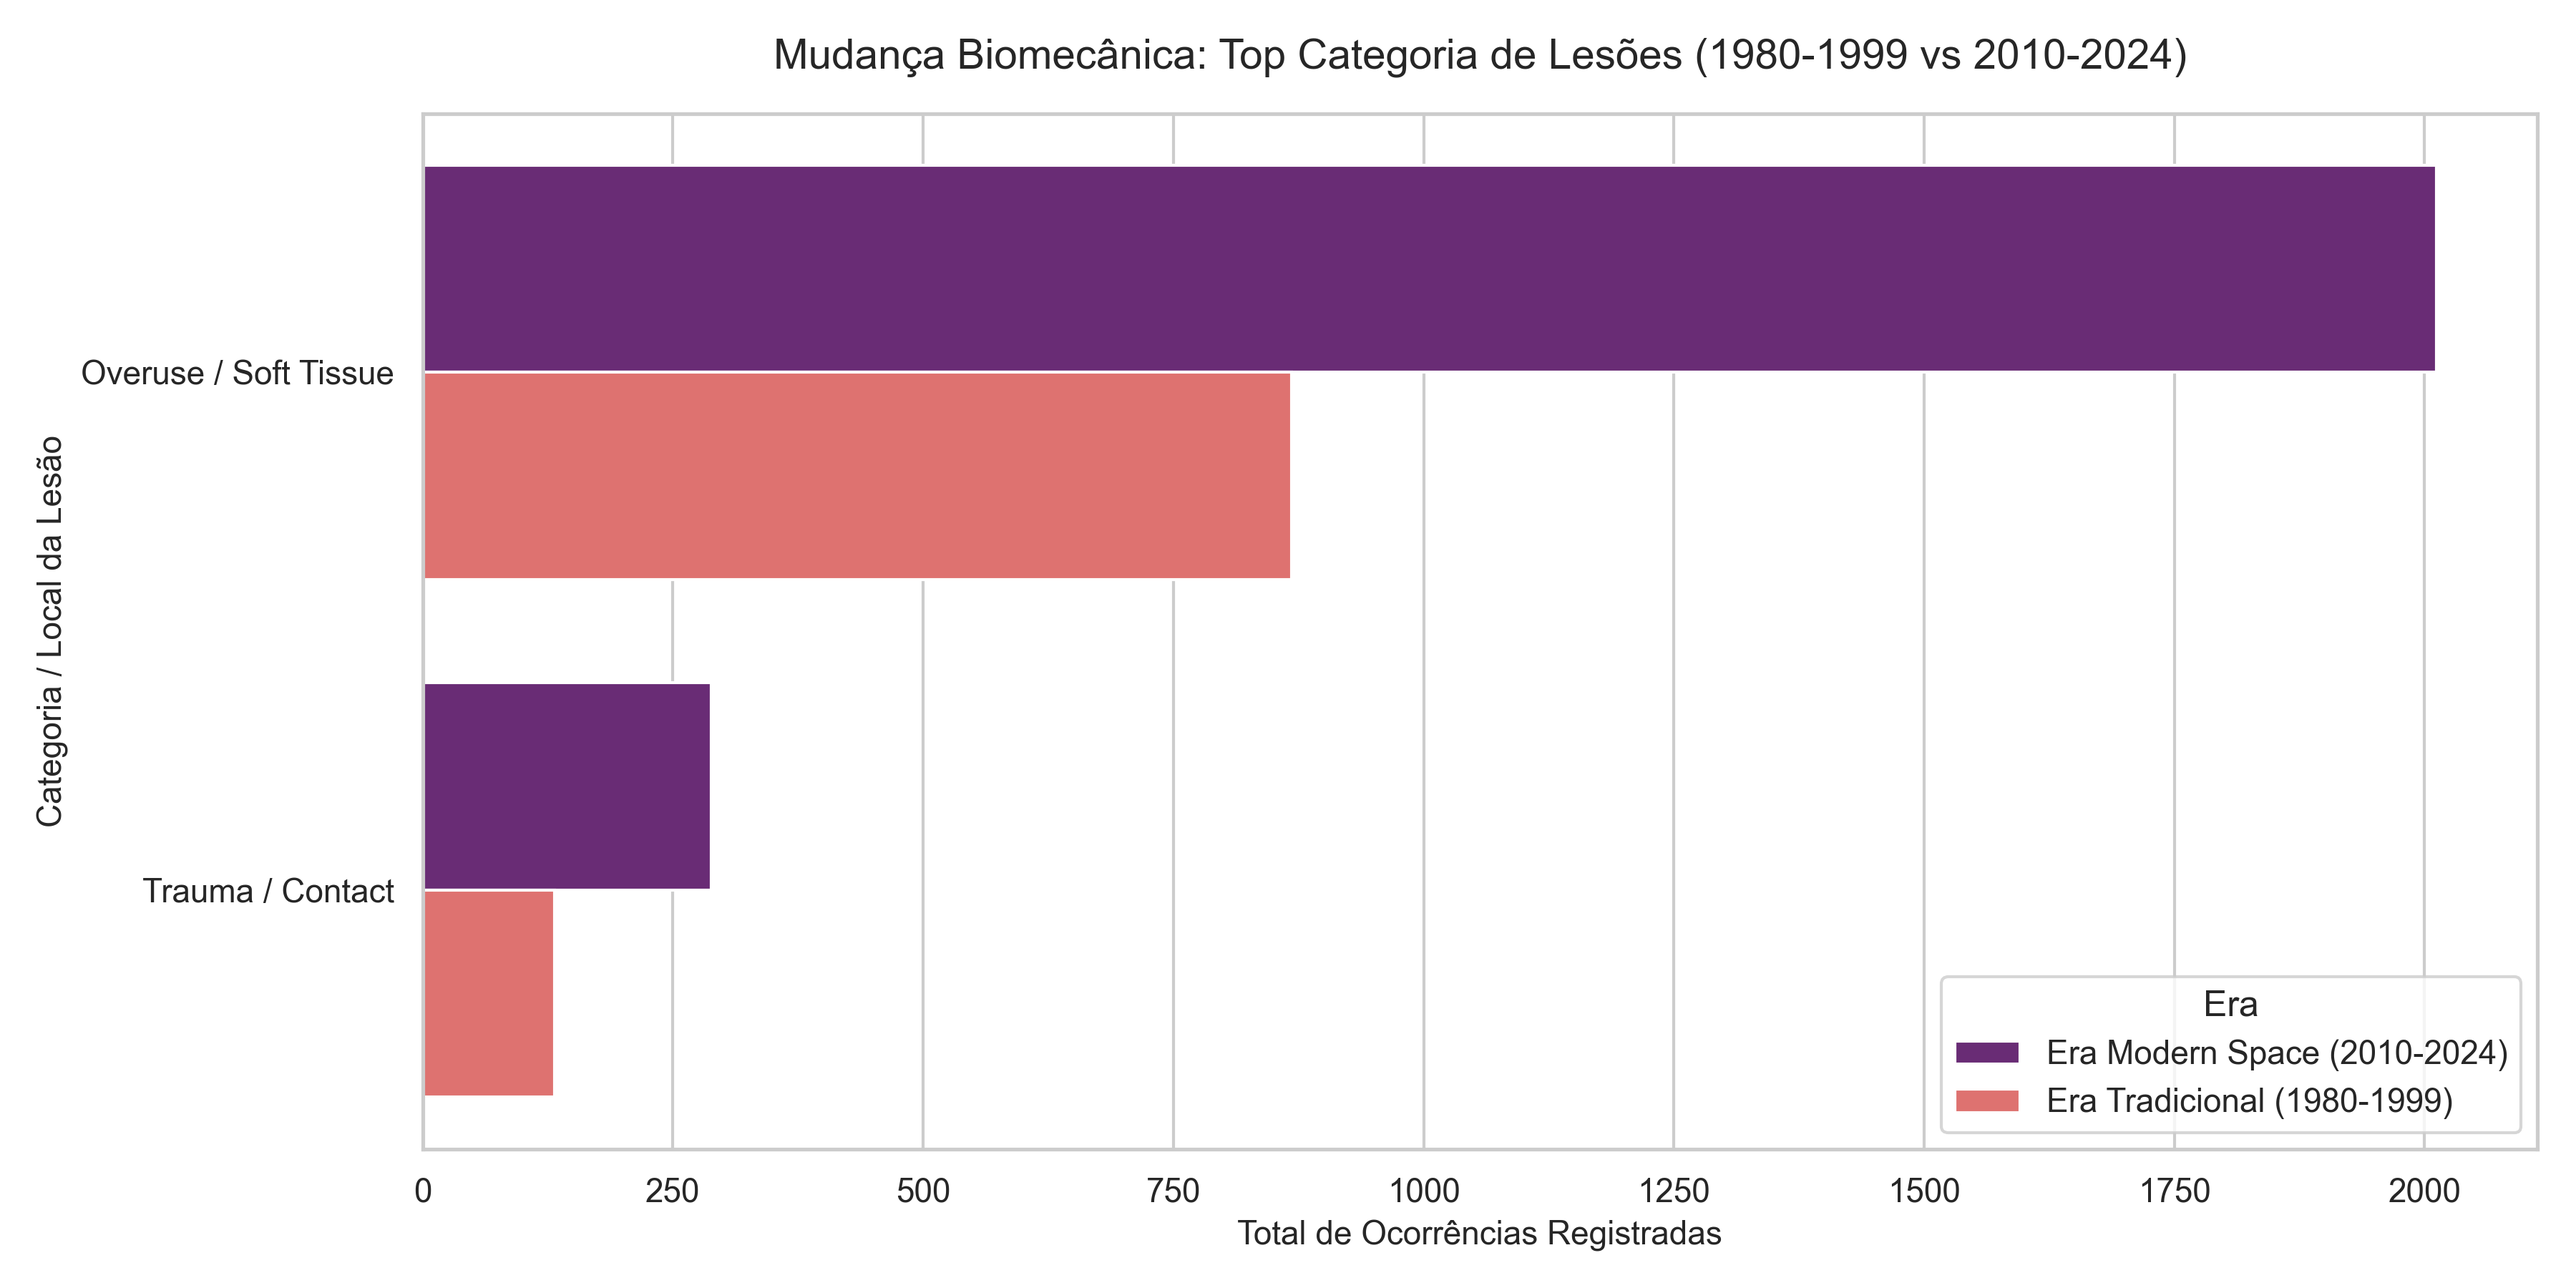
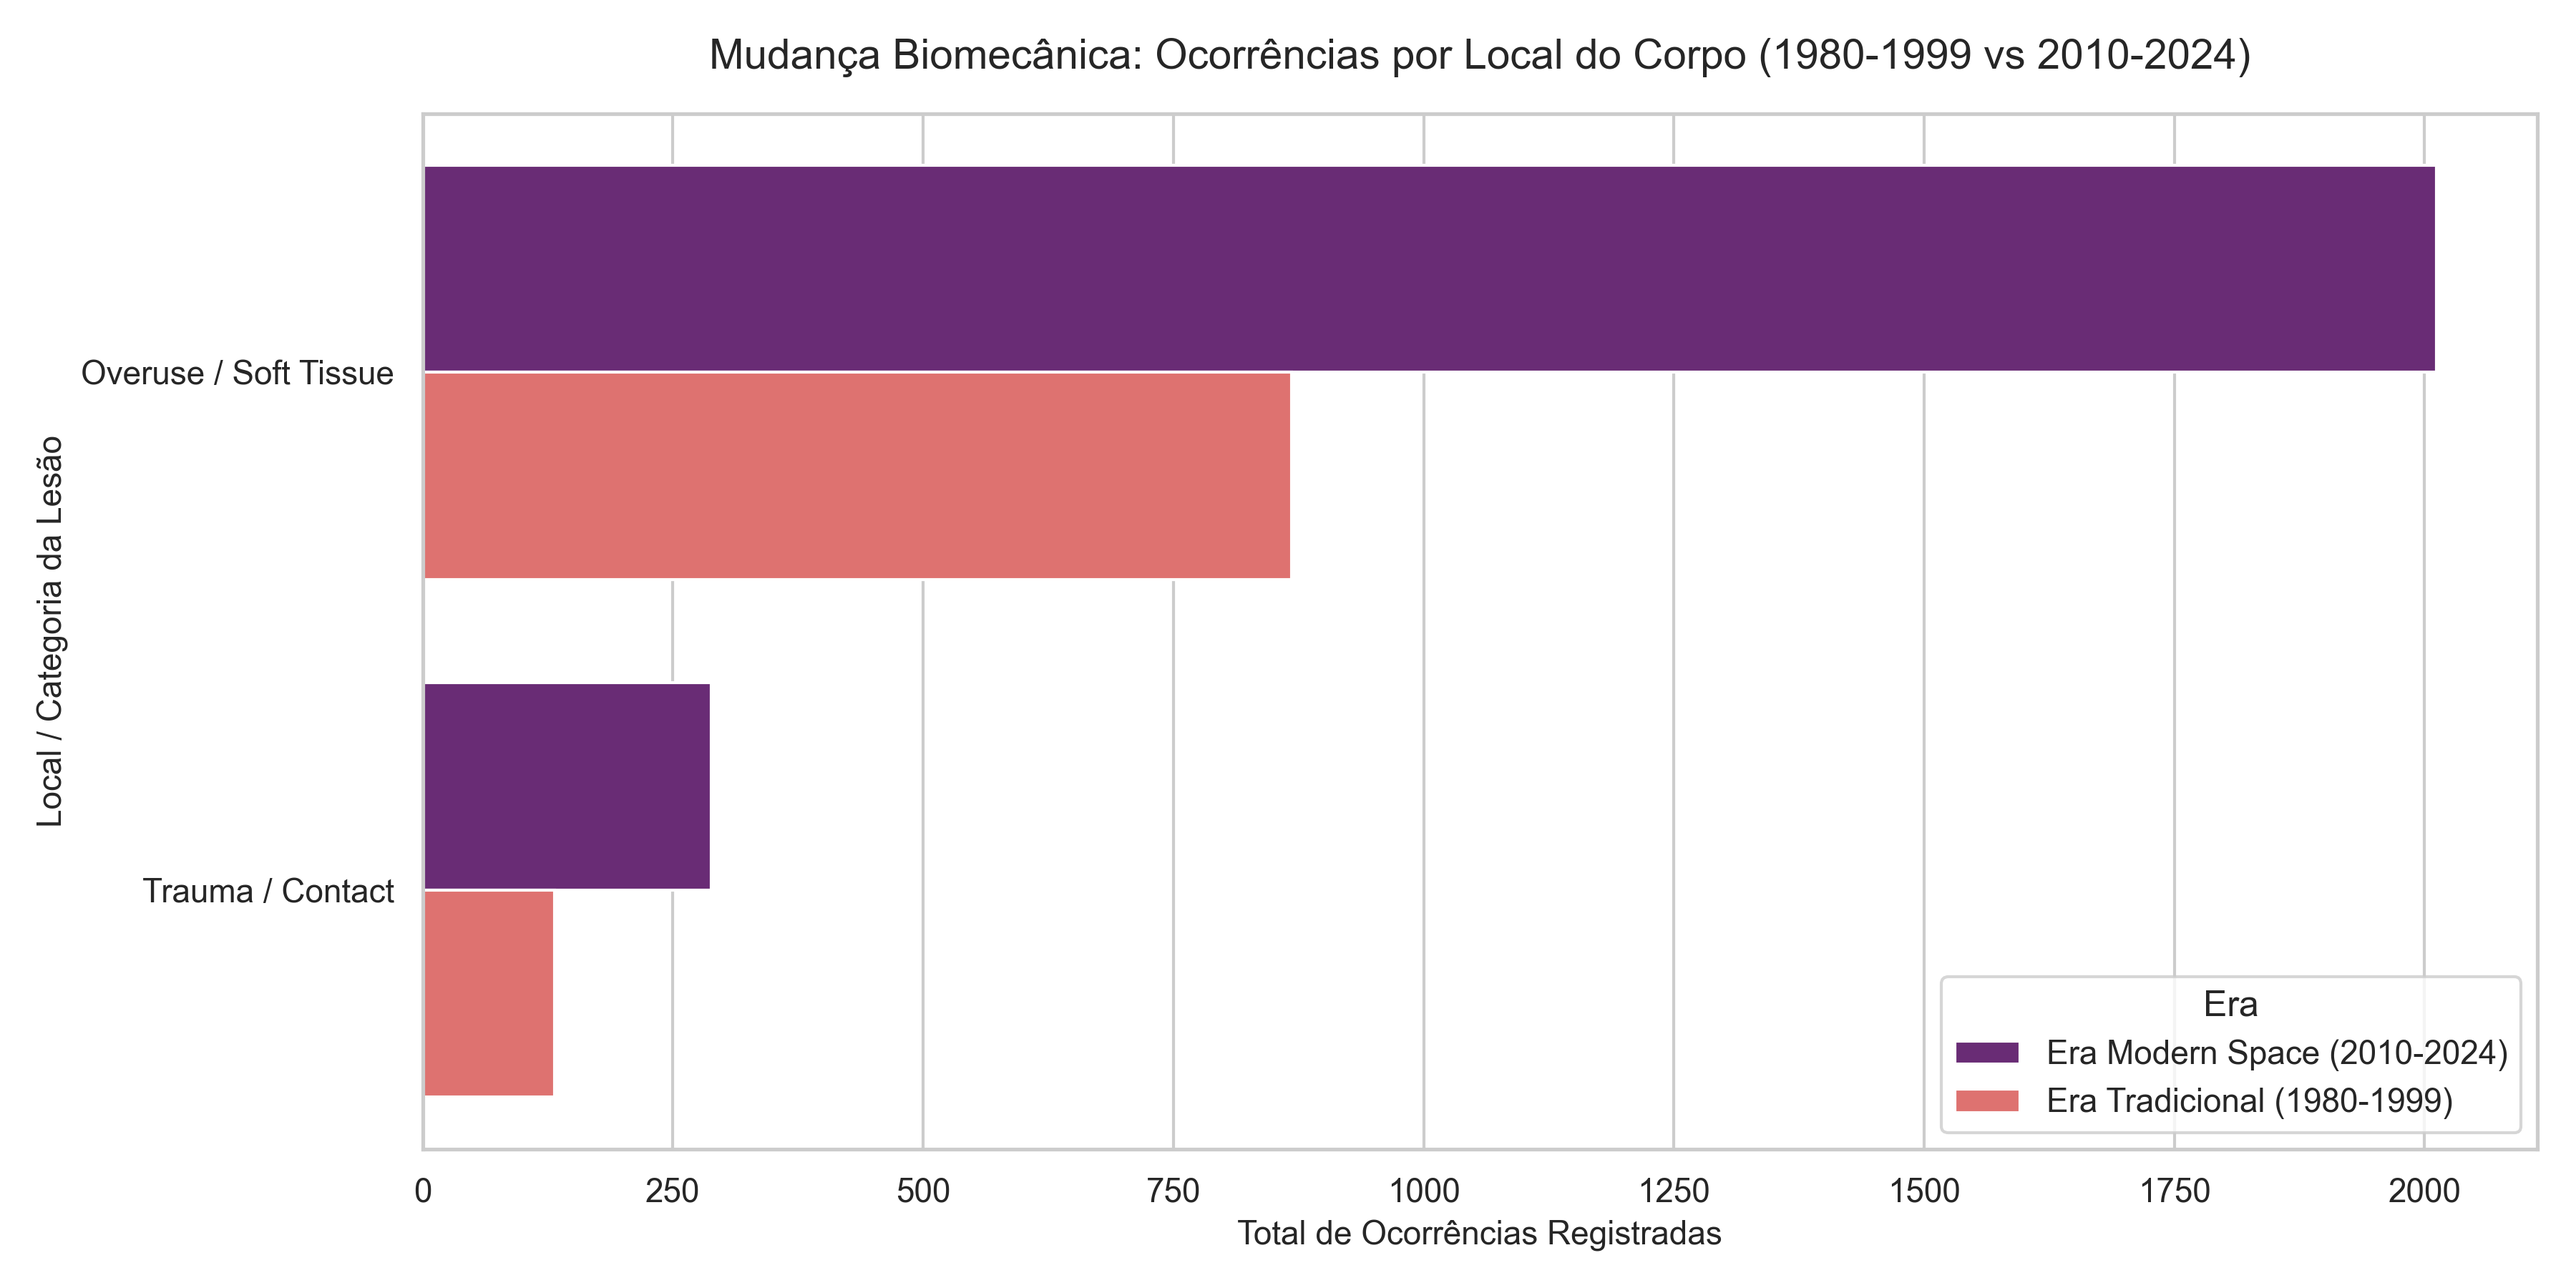
fix: resolve GROUP BY query issue in plot_insights and sync figures

Changed region(s): [[0.28, 0.0311, 0.8711, 0.0622], [0.0, 0.4667, 0.0311, 0.6222]]

diff --git a/scripts/analytics/plot_insights.py b/scripts/analytics/plot_insights.py
@@ -11,61 +11,68 @@ def generate_plots_and_tables():
     con = duckdb.connect(DB_PATH)
     sns.set_theme(style="whitegrid")
     
-    print("📊 Gerando análises e comparações topográficas de lesões por Era...")
+    print("📊 Gerando análises financeiras, de jogos perdidos e locais do corpo por Era...")
     
-    # 1. Top 10 Tipos/Locais de Lesão por Era
-    df_top_injuries = con.execute("""
-        WITH era_injuries AS (
-            SELECT 
+    # 1. Análise Financeira e de Gravidade por Categoria de Lesão e Era (Agrupado via era_group)
+    df_injury_impact = con.execute("""
+        SELECT 
+            CASE 
+                WHEN season < 2000 THEN 'Era Tradicional (1980-1999)'
+                ELSE 'Era Modern Space (2010-2024)'
+            END AS era_group,
+            injury_category,
+            COUNT(*) AS total_cases,
+            ROUND(AVG(COALESCE(games_missed, 5)), 1) AS avg_games_missed,
+            -- Custo estimado por jogo perdido ($75k/jogo era moderna vs $20k/jogo tradicional)
+            ROUND(COUNT(*) * AVG(COALESCE(games_missed, 5)) * 
                 CASE 
-                    WHEN season < 2000 THEN 'Era Tradicional (1980-1999)'
-                    ELSE 'Era Modern Space (2010-2024)'
-                END AS era_group,
-                injury_category,
-                COUNT(*) AS total_cases
-            FROM main_silver.stg_injuries
-            WHERE injury_category IS NOT NULL
-            GROUP BY 1, 2
-        )
-        SELECT era_group, injury_category, total_cases
-        FROM era_injuries
+                    WHEN (CASE WHEN season < 2000 THEN 'Era Tradicional (1980-1999)' ELSE 'Era Modern Space (2010-2024)' END) = 'Era Tradicional (1980-1999)' 
+                    THEN 20000 
+                    ELSE 75000 
+                END / 1000000.0, 2) AS estimated_cost_millions
+        FROM main_silver.stg_injuries
+        WHERE injury_category IS NOT NULL
+        GROUP BY 1, 2
         ORDER BY era_group, total_cases DESC
     """).df()
     
-    # 2. Dados Gerais da Gold
-    df_eras = con.execute("SELECT * FROM main_gold.fct_league_era_workload_injuries ORDER BY season ASC").df()
-    df_acwr = con.execute("SELECT * FROM main_gold.fct_acute_chronic_workload_ratio WHERE acwr_ratio IS NOT NULL").df()
-    
     con.close()
     
-    # --- GRÁFICO 1: Comparativo Top Locais/Tipos de Lesão (Tradicional vs Moderna) ---
+    # --- GRÁFICO 1: Comparativo de Ocorrências por Local do Corpo ---
     plt.figure(figsize=(12, 6))
     sns.barplot(
-        data=df_top_injuries, 
+        data=df_injury_impact, 
         x='total_cases', 
         y='injury_category', 
         hue='era_group', 
         palette='magma'
     )
-    plt.title('Mudança Biomecânica: Top Categoria de Lesões (1980-1999 vs 2010-2024)', fontsize=14, pad=15)
+    plt.title('Mudança Biomecânica: Ocorrências por Local do Corpo (1980-1999 vs 2010-2024)', fontsize=14, pad=15)
     plt.xlabel('Total de Ocorrências Registradas', fontsize=11)
-    plt.ylabel('Categoria / Local da Lesão', fontsize=11)
+    plt.ylabel('Local / Categoria da Lesão', fontsize=11)
     plt.legend(title='Era')
     plt.tight_layout()
-    
-    top10_path = os.path.join(OUTPUT_DIR, "top_injuries_by_era.png")
-    plt.savefig(top10_path, dpi=300)
+    plt.savefig(os.path.join(OUTPUT_DIR, "top_injuries_by_era.png"), dpi=300)
     plt.close()
-    print(f"✅ Gráfico do Top Lesões salvo em: {top10_path}")
 
-    # Print do Relatório no Terminal
-    print("\n📌 COMPARATIVO: TOP LOCAIS/TIPOS DE LESÃO POR ERA")
-    print("=" * 65)
-    for era in df_top_injuries['era_group'].unique():
-        print(f"\n🔹 {era.upper()}:")
-        sub_df = df_top_injuries[df_top_injuries['era_group'] == era].head(10)
-        print(sub_df[['injury_category', 'total_cases']].to_string(index=False))
-    print("=" * 65)
+    # --- GRÁFICO 2: Custo Financeiro Estimado por Categoria na Era Moderna ($ Milhões) ---
+    plt.figure(figsize=(10, 5))
+    modern_df = df_injury_impact[df_injury_impact['era_group'] == 'Era Modern Space (2010-2024)'].sort_values('estimated_cost_millions', ascending=False).head(8)
+    sns.barplot(
+        data=modern_df,
+        x='estimated_cost_millions',
+        y='injury_category',
+        palette='Reds_r'
+    )
+    plt.title('Impacto Financeiro Estimado por Tipo de Lesão na Era Moderna (em $ Milhões)', fontsize=13, pad=12)
+    plt.xlabel('Custo Estimado em Salários de Jogadores Afastados ($ Milhões)', fontsize=11)
+    plt.ylabel('Local da Lesão', fontsize=11)
+    plt.tight_layout()
+    cost_plot_path = os.path.join(OUTPUT_DIR, "injury_financial_cost.png")
+    plt.savefig(cost_plot_path, dpi=300)
+    plt.close()
+    
+    print(f"✅ Gráficos gerados com sucesso em: {OUTPUT_DIR}")
 
 if __name__ == "__main__":
     generate_plots_and_tables()
